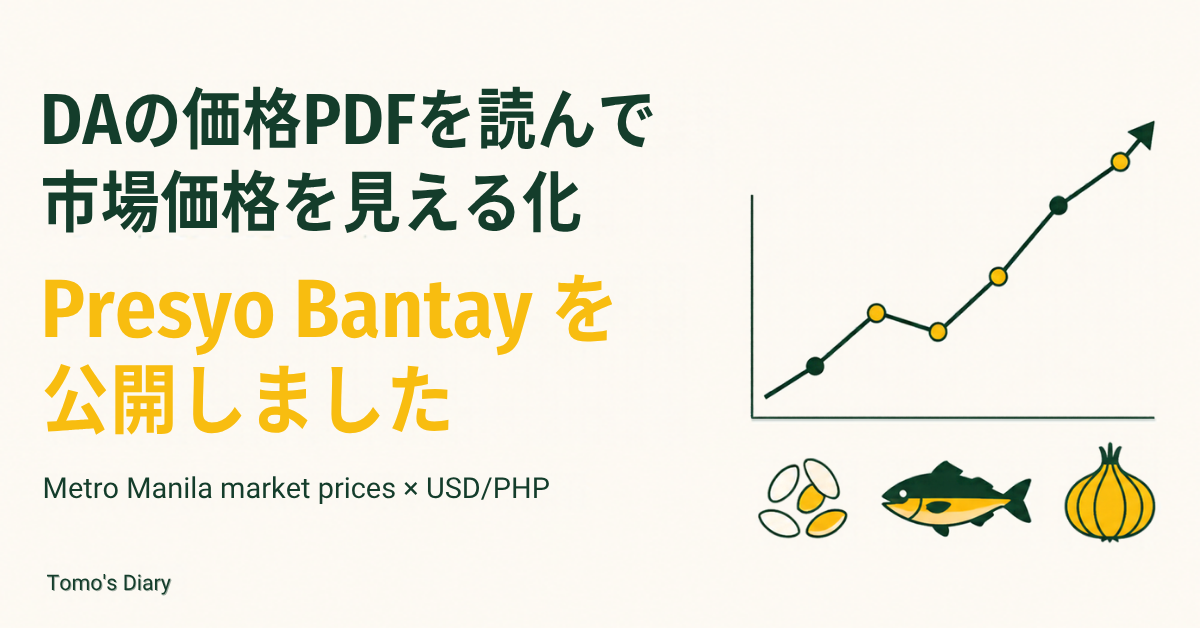
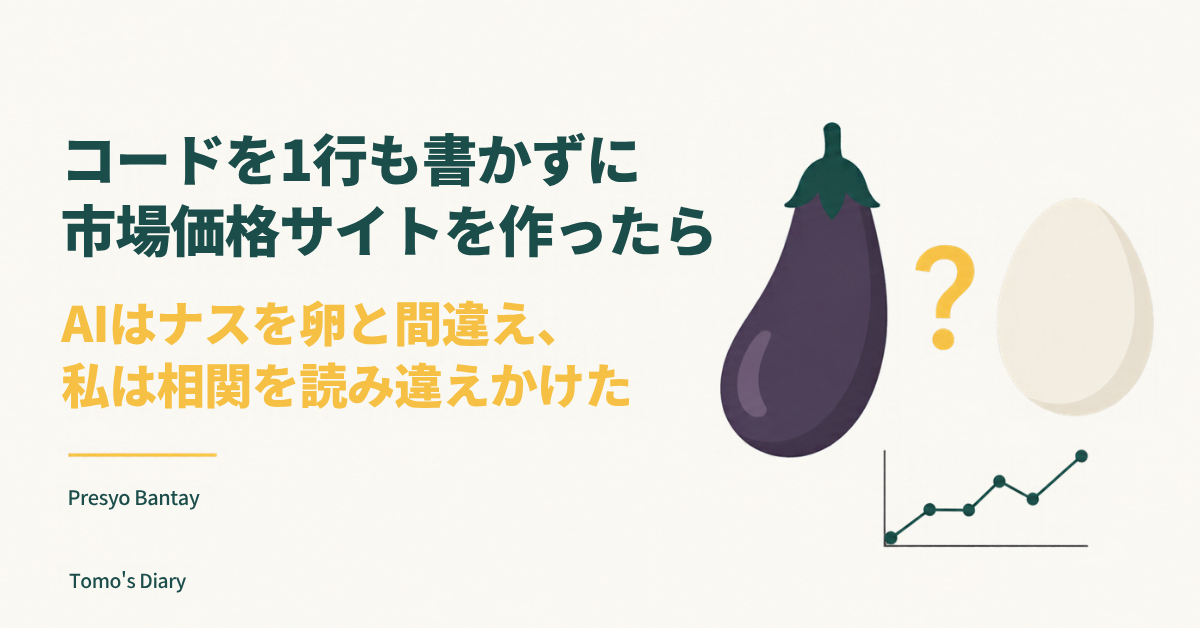
Presyo Bantay: new hero matching title; 起承転結 headings

diff --git a/src/posts/presyo-bantay.md b/src/posts/presyo-bantay.md
@@ -8,7 +8,7 @@ tags:
   - presyo-bantay
   - ai-agents
 image: /images/posts/presyo-bantay/hero.png
-imageAlt: 「DAの価格PDFを読んで市場価格を見える化 Presyo Bantay を公開しました」のタイトルと、右肩上がりの折れ線グラフ、米・魚・玉ねぎのイラスト
+imageAlt: 「コードを1行も書かずに市場価格サイトを作ったら AIはナスを卵と間違え、私は相関を読み違えかけた Presyo Bantay」の文字と、ナスと卵の間の「？」、折れ線グラフのイラスト
 ---
 
 フィリピン農業省（DA）が毎日出している市場価格のPDFを読み取り、メトロマニラの市場の価格推移と、USD/PHP（米ドルとフィリピンペソの為替レート）との相関をブラウザで見られる静的サイト「[Presyo Bantay](https://abalol.xyz/presyo-bantay/)」を、今日（2026年10月24日）非営利の地域プロジェクトとして公開しました。公開時点で39市場・34品目ぶんのデータが入っています。コードは1行も書かず、opencode（AIにコードを書かせるツール）と Muse というAIモデルに全部書かせました。Las Piñasの市場では、輸入米の価格がUSD/PHPと1〜2週間遅れで相関係数 r=+0.92 と強く連動していました（ただしデータは2か月分ほどです）。
@@ -90,9 +90,13 @@ AIに任せるときは、テストが通るかどうかだけでなく、「何
 
 輸入米はペソ安から1〜2週間遅れて値上がりしているように見えます。ただし、Las Piñasの輸入米は2026-08-18より前のPDFにはそもそも載っていません。2か月分のデータで、しかもその間ペソ安と米の値上がりがどちらも続いていたので、たまたま同じ方向に動いただけの可能性も十分あります。
 
+## 書いている途中で、表が古くなった
+
 実はこの表、記事を書いている途中で古くなりました。
 
 過去分の取り込みが進んだところで同じ計算をし直すと、輸入米はラグ7日・14日とも r=+0.92（n=58。n は比べた日数）のままでしたが、Galunggongは+0.70から+0.39前後（n=178）に下がり、赤玉ねぎは−0.31から−0.48前後（n=309）になりました。「ほぼ関係なさそう」と書いた赤玉ねぎのほうが、絶対値ではGalunggongより大きくなっています。
+
+## 読み込みすぎていたのは私だった
 
 Eggplantの件で、AIが何を根拠に判定しているかをレビューで見るのが大事だと書きました。途中までのデータで数字を読み込みすぎていたのは、AIではなく私のほうでした。**相関は因果ではありません**。r が高いのは「この期間に同じ方向に動いていた」というだけで、為替が原因で価格が動いたとは言えません。サイトの相関パネルに r と n、「相関は因果ではない」の注意書きを出しておいたのは正解でした。
 
